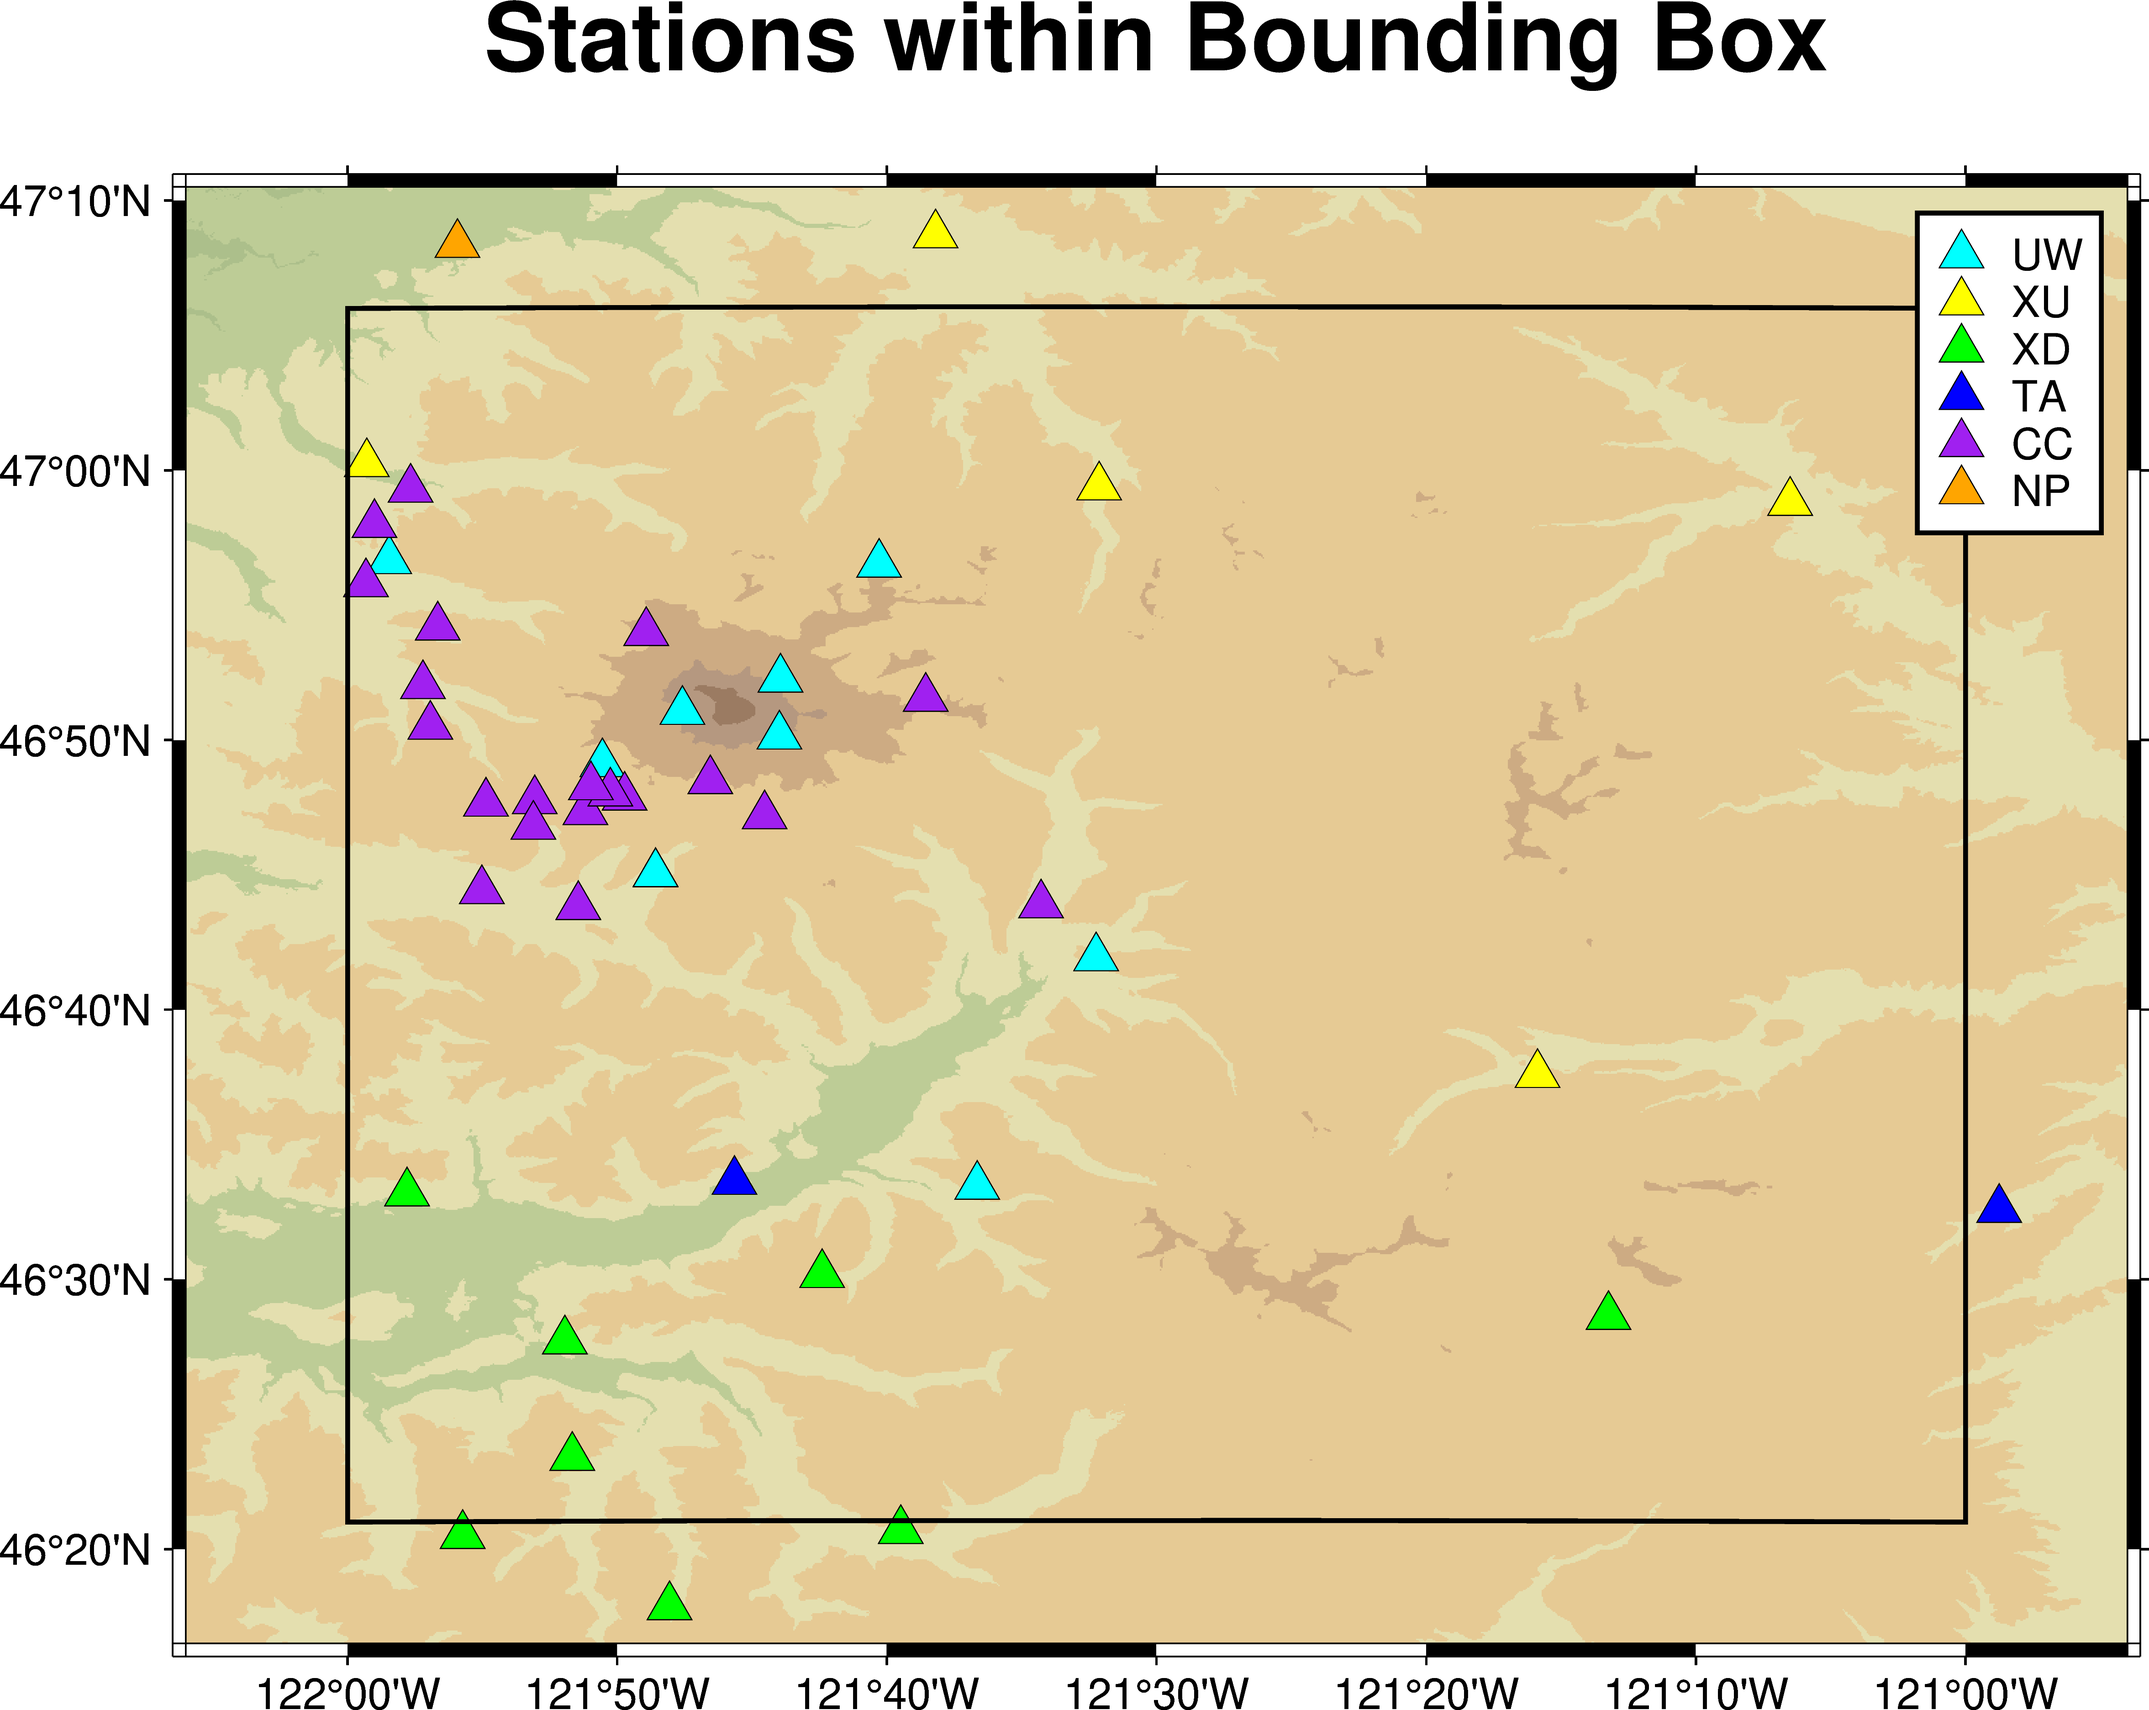
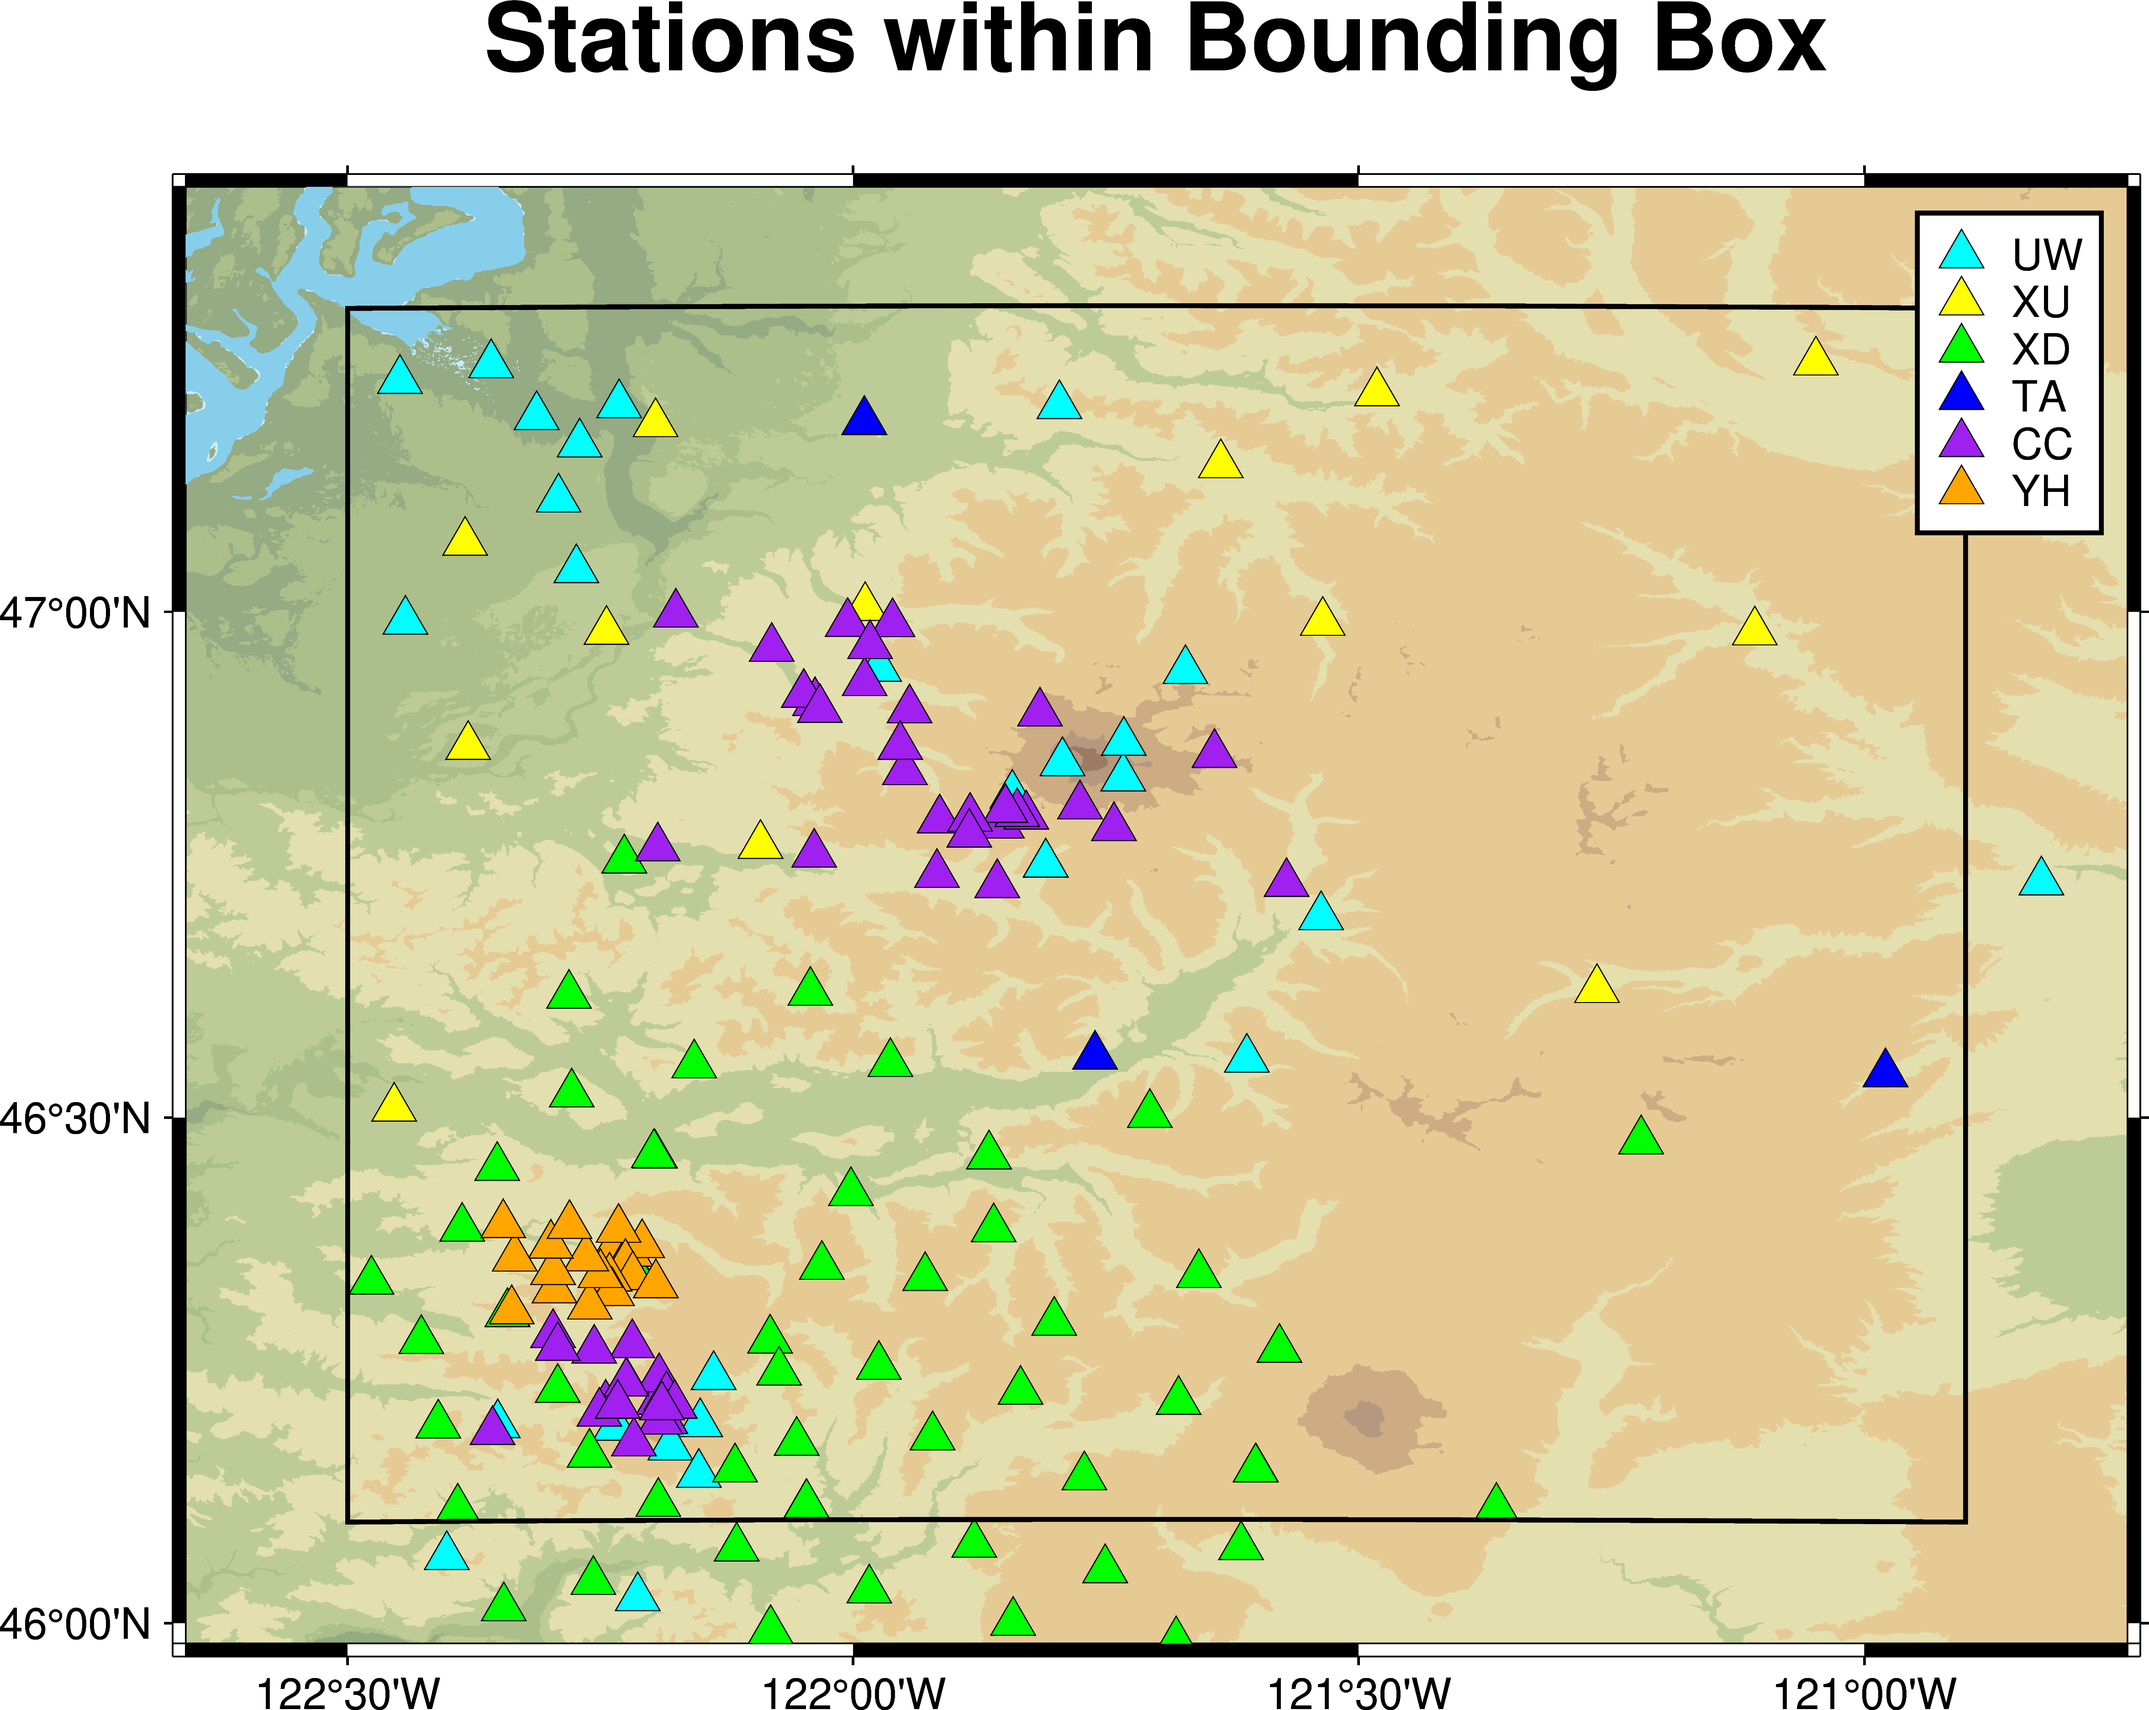
Updated main

diff --git a/mapping/mapping_stations.py b/mapping/mapping_stations.py
@@ -259,7 +259,7 @@ def plot_bounding_box(fig, bounds):
 def plot_stations(inventory,projection="Q15c+du",figure_name="figure!",
                   resolution='03s',region=None,
                   cmap="./Resources/colormaps/colombia.cpt",
-                  box_bounds=None):
+                  box_bounds=None,margin=0.1):
     """
     Parameters
     ----------
@@ -279,6 +279,9 @@ def plot_stations(inventory,projection="Q15c+du",figure_name="figure!",
     box_bounds : list of ints or floats, optional
         Region to draw a box around, in order [minlon, maxlon, minlat, maxlat].
         If none is set, no box will be drawn
+    margin : int or float, optional
+        Margin size, multiplied by the length of the bounds. 0.1 = 10% margin. 
+        The default is 0.1.
 
     Returns
     -------
@@ -290,9 +293,9 @@ def plot_stations(inventory,projection="Q15c+du",figure_name="figure!",
     lats,lons,elevs = get_coordinate_list(inventory)
     
     if region == None:
-        bounds = get_map_bounds(lats,lons)
+        bounds = get_map_bounds(lats,lons,margin=margin)
     else:
-        bounds = get_marginal_bounds(region)
+        bounds = get_marginal_bounds(region,margin=margin)
     
     grid = pygmt.datasets.load_earth_relief(resolution=resolution, region=bounds)
     
@@ -305,7 +308,6 @@ def plot_stations(inventory,projection="Q15c+du",figure_name="figure!",
                  frame=["a",f'+t{figure_name}'],
                  cmap=cmap)
     fig.coast(shorelines="4/0.5p,black",
-              rivers="1/2p,blue",
               projection=projection,
               borders="2/1.2p,black",
               water="skyblue",

diff --git a/Mapping_Main.py b/Mapping_Main.py
@@ -11,25 +11,32 @@ import mapping.mapping_stations as ms
 deployment_list = [["UW","2015-01-01","2017-12-31"],["XU","2007-01-01","2011-12-31"],
                    ["XD","2014-01-01","2016-12-31","M*"],["TA","2006-01-01","2023-11-6"],
                    #["YW","2005-08-11","2005-12-31"],
-                   ["CC","2020-10-22","2023-11-7"],["NP","2013-01-01","2013-01-02"]
+                   ["CC","2020-10-22","2023-11-7"],["YH","2016-01-01","2016-12-31"]
                    ]
 
-region_bounds = [-122, -120.5, 45.6, 47.25]
-box_bounds = [-122, -121, 46.35, 47.1]
+region_bounds = [-122.5, -120.5, 45, 47.25]
+box_bounds = [-122.5, -120.9, 46.1, 47.3]
 
 station_inv = ms.find_multi_network(deployment_list,region_bounds)
 
+# Plotting a regional overview
+regional_fig = ms.plot_stations(station_inv,
+                                figure_name="Rainier Region Seismic Stations",
+                                box_bounds=box_bounds,
+                                resolution="01m",
+                                margin=1)
+regional_fig.show()
+     
+# Plotting a narrower regional interview        
 fig = ms.plot_stations(station_inv,
                        figure_name="Rainier Region Seismic Stations",
                        box_bounds=box_bounds)
-                    
 fig.show()
 ms.save_fig(fig,"Regional_Stations")
 
+# Plotting the bounding box
 fig2 = ms.plot_stations(station_inv,region=box_bounds,
                         figure_name="Stations within Bounding Box",
                         box_bounds=box_bounds)
-                       
-                     
 fig2.show()
 ms.save_fig(fig2,"Local_View_Stations")
